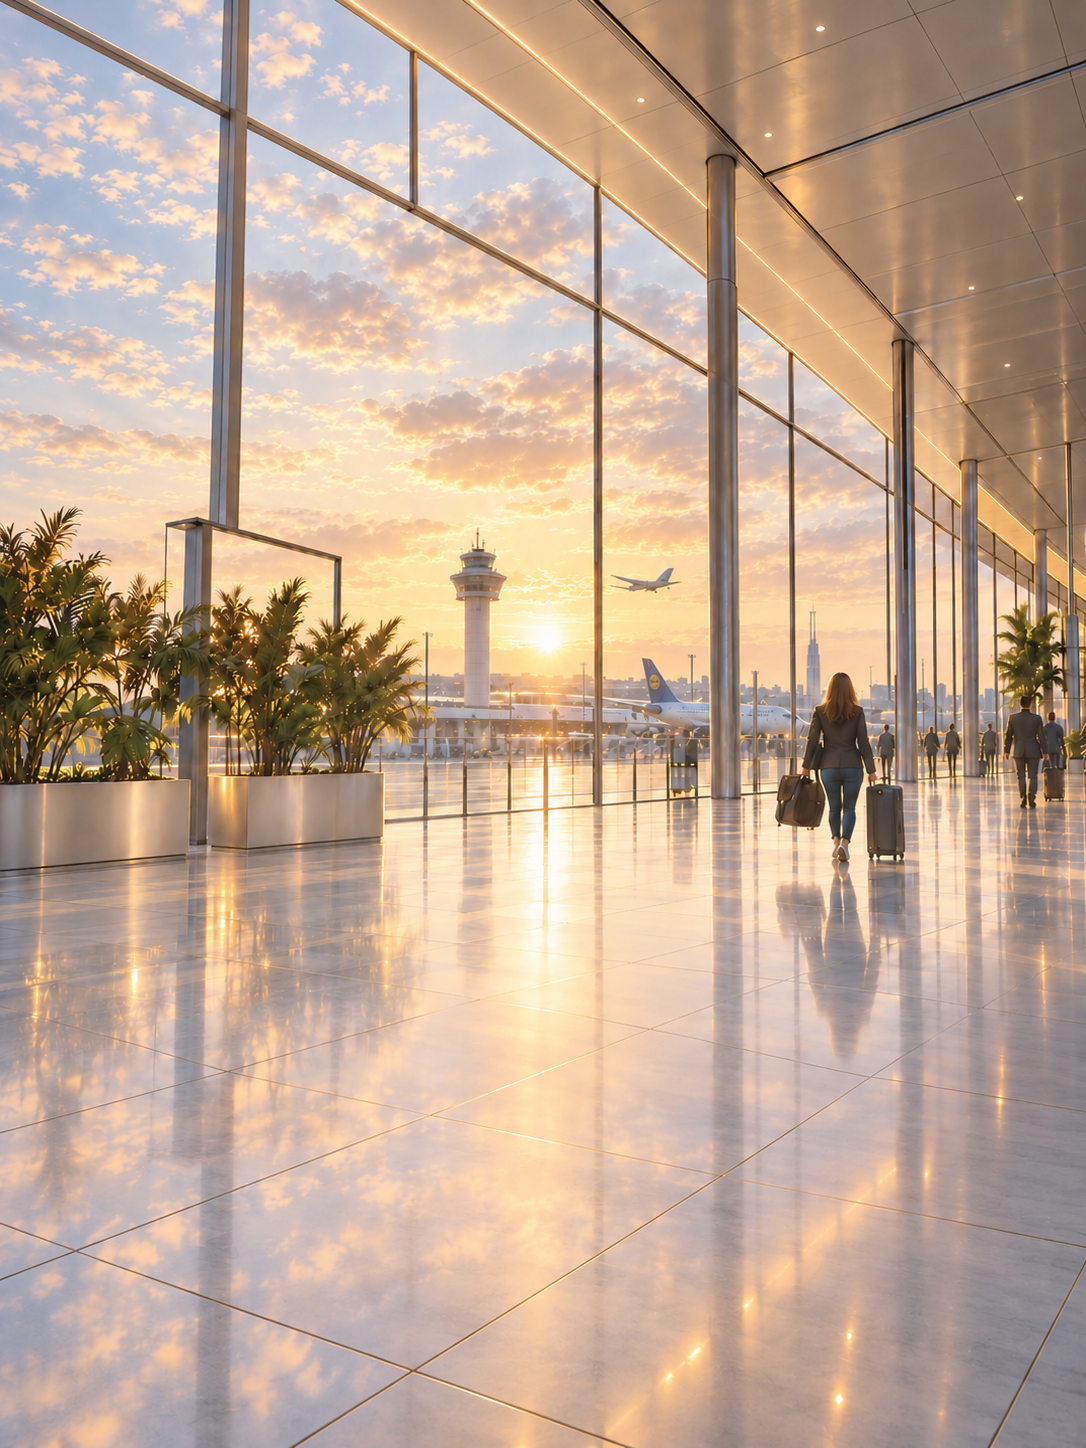
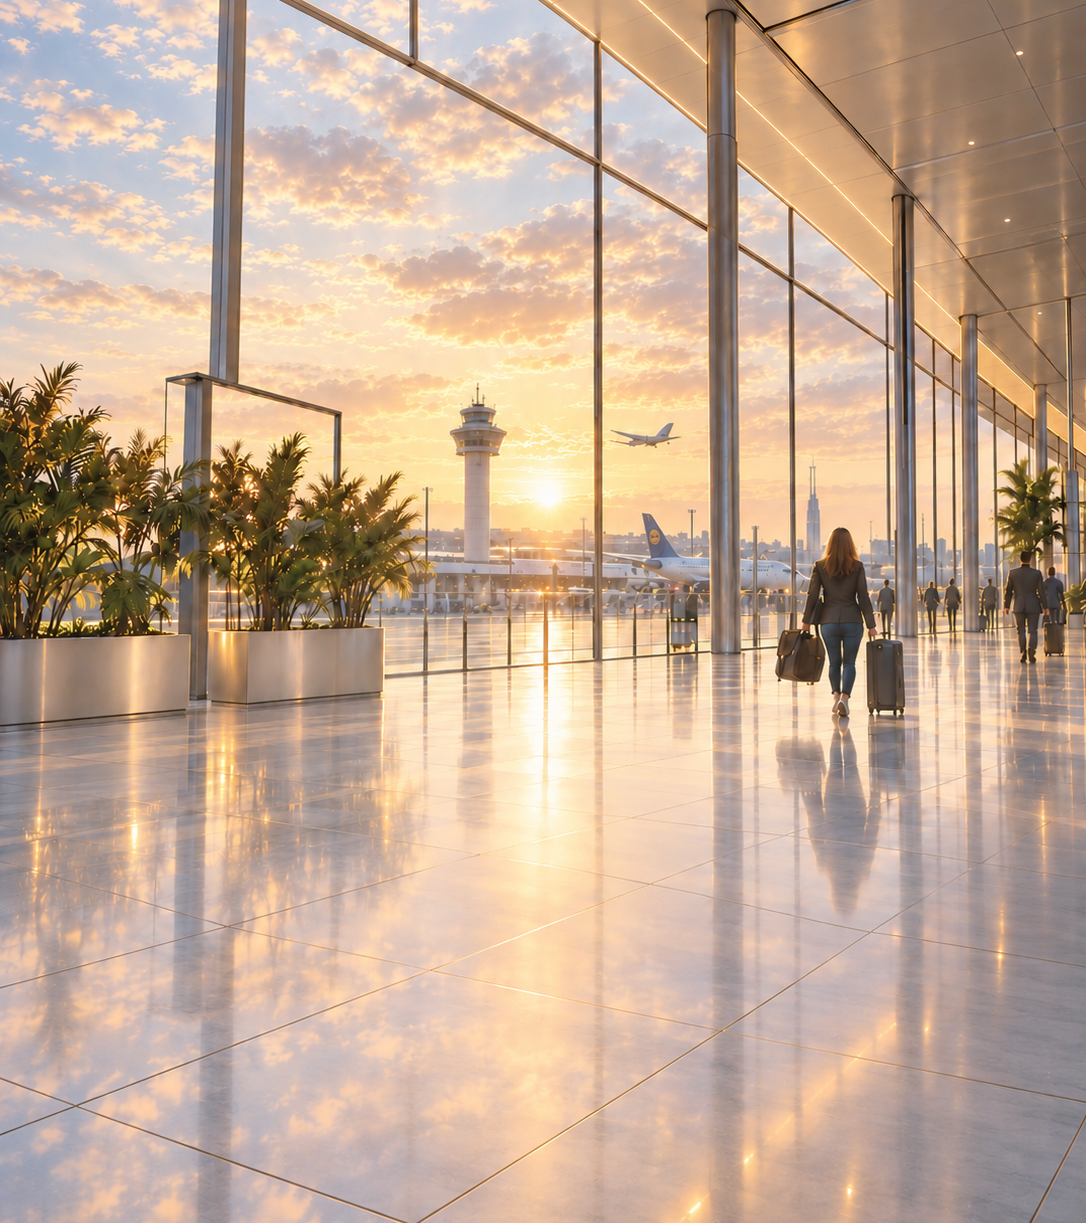
notification bege add light and dark mode

diff --git a/lib/feature/home/screen/home_screen.dart b/lib/feature/home/screen/home_screen.dart
@@ -93,11 +93,12 @@ class _HomeScreenState extends ConsumerState<HomeScreen> {
                                 colors: [
                                   (isDark
                                           ? AppColors.darkBlack
-                                          : const Color(0xFFF8FAFC))
-                                      .withValues(alpha: 0.0),
+                                          : const Color(0xFFE1D8CE))
+                                      .withValues(alpha: 0.8),
                                   (isDark
-                                      ? AppColors.darkBlack
-                                      : const Color(0xFFF8FAFC)),
+                                          ? AppColors.darkBlack
+                                          : const Color(0xFFE1D8CE))
+                                      .withValues(alpha: 0.2),
                                 ],
                               ),
                             ),
@@ -357,14 +358,32 @@ class _HomeScreenState extends ConsumerState<HomeScreen> {
                   ),
                 ),
                 child: Center(
-                  child: SvgPicture.asset(
-                    ImageAssets.notification,
-                    width: 20.w,
-                    height: 20.w,
-                    colorFilter: const ColorFilter.mode(
-                      Colors.white,
-                      BlendMode.srcIn,
-                    ),
+                  child: Stack(
+                    clipBehavior: Clip.none,
+                    children: [
+                      SvgPicture.asset(
+                        ImageAssets.notification,
+                        width: 20.w,
+                        height: 20.w,
+                        colorFilter: const ColorFilter.mode(
+                          Colors.white,
+                          BlendMode.srcIn,
+                        ),
+                      ),
+
+                      Positioned(
+                        right: 0,
+                        top: -2,
+                        child: Container(
+                          width: 8.w,
+                          height: 8.w,
+                          decoration: BoxDecoration(
+                            color: Colors.red,
+                            shape: BoxShape.circle,
+                          ),
+                        ),
+                      ),
+                    ],
                   ),
                 ),
               ),

diff --git a/lib/feature/home/widget/city_weather_card.dart b/lib/feature/home/widget/city_weather_card.dart
@@ -35,18 +35,15 @@ class CityWeatherCard extends ConsumerWidget {
     final effectiveTime = localTime ?? weather.localTime ?? '';
     final effectiveDate = date ?? weather.date ?? '';
 
-    final primaryTextColor = isDark ? Colors.white : AppColors.black;
-    final secondaryTextColor = isDark
-        ? Colors.white.withValues(alpha: 0.75)
-        : AppColors.darkGrayColor;
+    final primaryTextColor = Colors.white;
+    final secondaryTextColor = Colors.white.withValues(alpha: 0.75);
 
     return Container(
       width: double.infinity,
       padding: EdgeInsets.symmetric(horizontal: 10.w, vertical: 7.h),
       decoration: BoxDecoration(
-        color: isDark
-            ? Colors.black.withValues(alpha: 0.4)
-            : Colors.white.withValues(alpha: 0.22),
+        color: Colors.black.withValues(alpha: 0.4),
+
         borderRadius: BorderRadius.circular(16.r),
         border: Border.all(
           color: isDark
